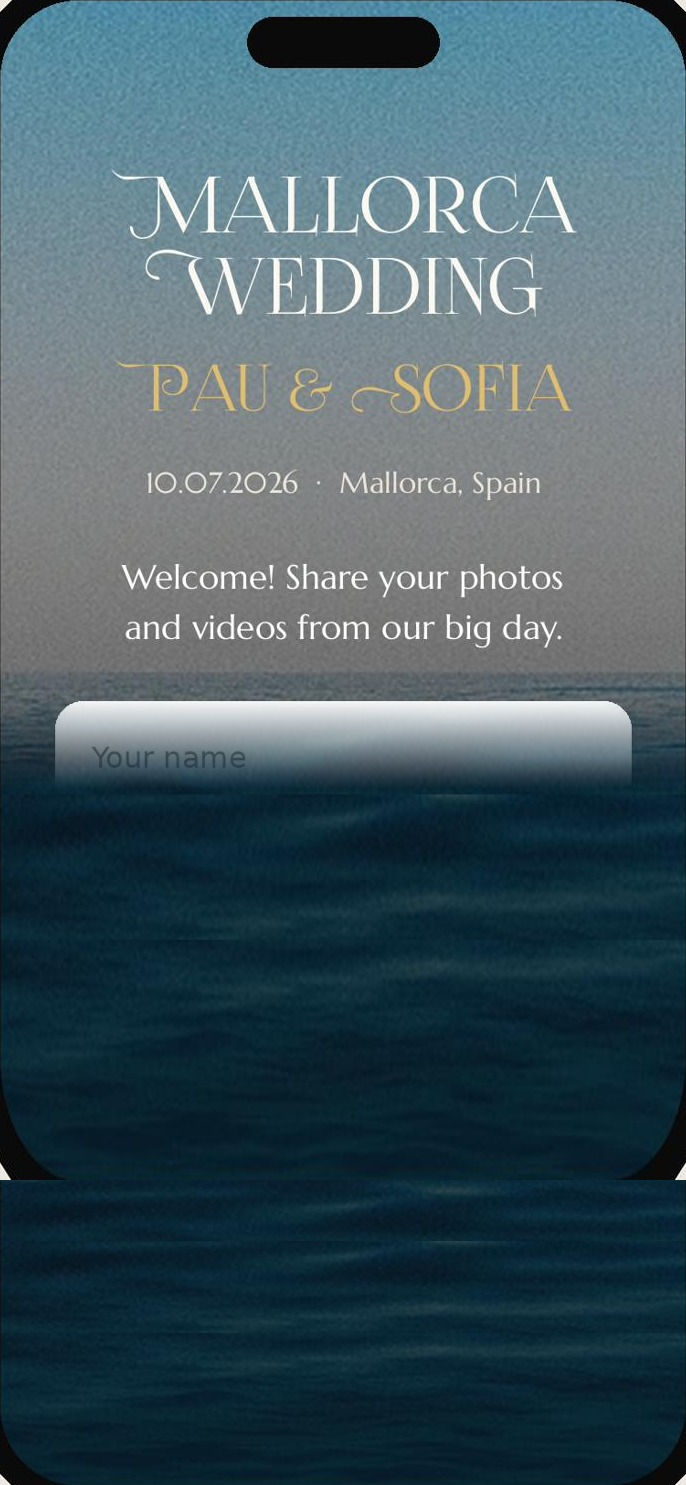
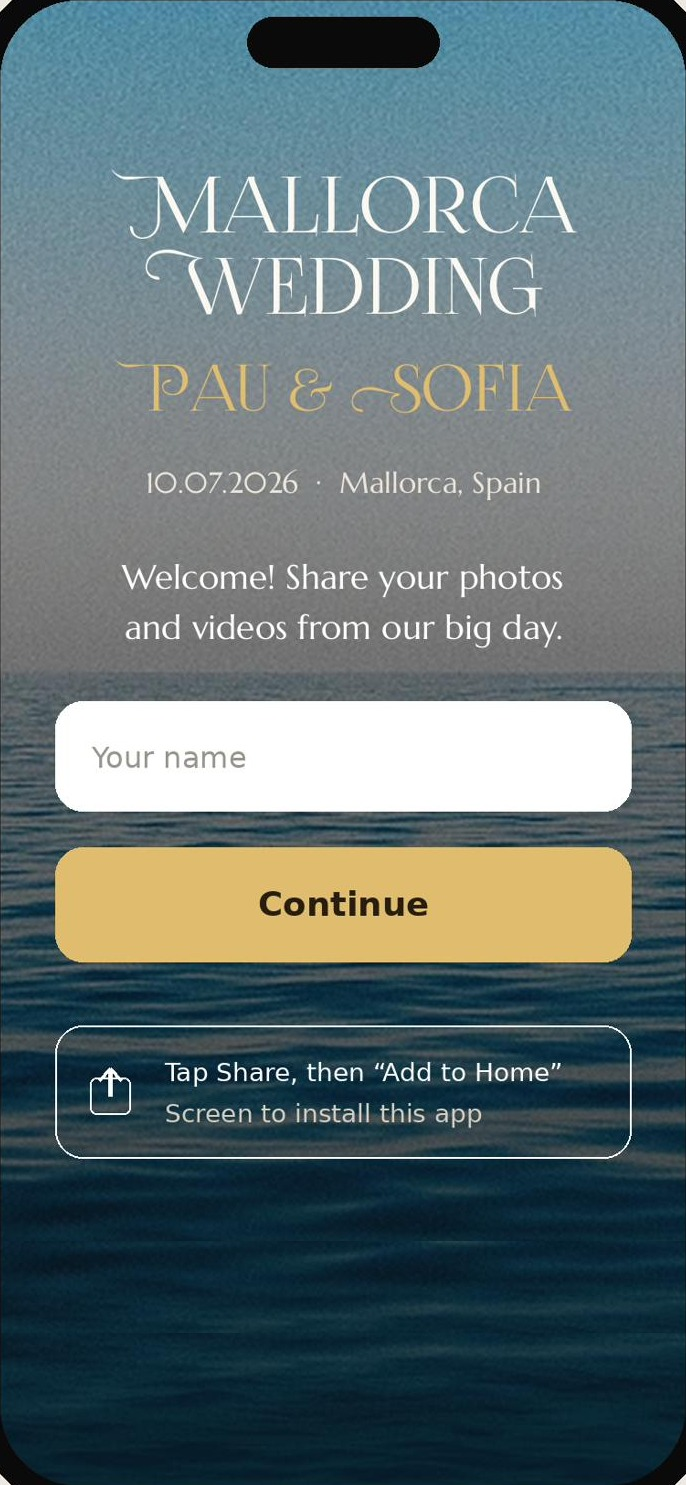
Fix login page artifact and drop the language switcher
Two earlier attempts to paint over the mockup's baked-in fake UI
(stretched-texture clone, then a plain gradient) both left visible
seams -- a "Continue" ghost and vertical banding -- because they tried
to hide the contaminated region by editing the photo itself. Dropped
that approach entirely: the photo is now used completely unedited,
and the name/code/Continue rows are grouped into one solid opaque
card (zero gaps between rows, white background instead of the
95%-opacity fill that was letting the baked "Continue" text bleed
through) sized to fully cover where the mockup's fake field/button/
install-hint used to be. Nothing underneath can show through
regardless of exact pixel alignment.

Also removed the EN/CA/ES/RU language switcher from this screen per
request -- language can still be changed from Profile after signing in.

Changed region(s): [[0.0, 0.4646, 1.0, 0.8054]]

diff --git a/login.html b/login.html
@@ -21,79 +21,56 @@
     clip: rect(0,0,0,0); white-space: nowrap; border: 0;
   }
 
+  /* One opaque, unbroken card covering the whole area where the original
+     mockup had baked-in fake UI (a single field + button + install hint).
+     No gaps between the rows inside it — any gap would let those baked
+     pixels show through underneath. */
   .login-form {
-    position: absolute; inset: 0;
-    z-index: 2;
-  }
-  .login-field {
     position: absolute;
     left: 8.15%; width: 83.7%;
-    height: 6.9%;
+    top: 44.7%; height: 34.5%;
+    z-index: 2;
+    background: #ffffff;
+    border-radius: 14px;
+    overflow: hidden;
+    box-shadow: 0 4px 18px rgba(0,0,0,0.2);
+    display: flex;
+    flex-direction: column;
   }
-  .login-field input {
+  .login-row { flex: 1; position: relative; }
+  .login-row input {
     width: 100%; height: 100%;
     border: none;
-    border-radius: 14px;
     padding: 0 18px;
     font-size: 16px;
     font-family: var(--font-ui);
     color: var(--ink);
-    background: rgba(255,255,255,0.96);
-    box-shadow: 0 2px 10px rgba(0,0,0,0.12);
+    background: #ffffff;
   }
-  .login-field input:focus { outline: 2px solid var(--gold-text); }
-  #field-name { top: 47.4%; }
-  #field-code { top: 56.1%; }
+  .login-row input:focus { outline: 2px solid var(--gold-text); outline-offset: -2px; }
+  .login-row + .login-row { border-top: 1px solid var(--divider-2); }
 
   .login-submit {
-    position: absolute;
-    left: 8.15%; width: 83.7%;
-    top: 64.7%; height: 6.9%;
+    flex: 1;
     border: none;
-    border-radius: 14px;
     background: var(--gold);
     color: var(--ink);
     font-size: 16px;
     font-weight: 700;
     font-family: var(--font-ui);
     cursor: pointer;
-    box-shadow: 0 2px 10px rgba(0,0,0,0.15);
   }
   .login-submit:disabled { opacity: .6; cursor: default; }
 
   .login-error {
     position: absolute;
     left: 8.15%; width: 83.7%;
-    top: 73.2%;
+    top: calc(44.7% + 34.5% + 12px);
     color: #fff;
     text-shadow: 0 1px 4px rgba(0,0,0,0.6);
     font-size: 14px;
     text-align: center;
-  }
-
-  .lang-switch {
-    position: absolute;
-    top: calc(12px + env(safe-area-inset-top));
-    right: 16px;
-    z-index: 5;
-    display: flex;
-    gap: 6px;
-  }
-  .lang-switch button {
-    border: 1px solid rgba(255,255,255,0.55);
-    background: rgba(0,0,0,0.25);
-    color: #fff;
-    font-size: 12px;
-    font-weight: 600;
-    padding: 5px 9px;
-    border-radius: 12px;
-    cursor: pointer;
-    font-family: var(--font-ui);
-  }
-  .lang-switch button.is-active {
-    background: var(--gold);
-    border-color: var(--gold);
-    color: var(--ink);
+    z-index: 2;
   }
 </style>
 </head>
@@ -103,52 +80,31 @@
   <main class="app">
     <img class="login-bg" src="assets/img/login-full.jpg" alt="Mallorca Wedding — Pau &amp; Sofia, 10.07.2026, Mallorca, Spain">
     <div class="notch"></div>
-    <div class="lang-switch" id="lang-switch"></div>
 
     <form class="login-form" id="login-form">
-      <div class="login-field" id="field-name">
+      <div class="login-row">
         <label class="sr-only" for="name" data-i18n="login.nameLabel">Your name</label>
         <input id="name" name="name" type="text" autocomplete="name" placeholder="Your name" required>
       </div>
-      <div class="login-field" id="field-code">
+      <div class="login-row">
         <label class="sr-only" for="code" data-i18n="login.codeLabel">Access code</label>
         <input id="code" name="code" type="text" autocomplete="off" placeholder="Access code" required>
       </div>
-
       <button class="login-submit" type="submit" id="login-submit" data-i18n="login.continue">Continue</button>
-      <p class="login-error" id="login-error"></p>
     </form>
+    <p class="login-error" id="login-error"></p>
   </main>
   </div>
   </div>
 
   <script type="module">
     import { signInGuest } from "./js/auth.js";
-    import { applyTranslations, t, getLang, setLang, LANGUAGES } from "./js/i18n.js";
+    import { applyTranslations, t } from "./js/i18n.js";
 
     applyTranslations();
 
-    const langSwitch = document.getElementById("lang-switch");
-    function renderLangSwitch() {
-      const current = getLang();
-      langSwitch.innerHTML = LANGUAGES.map(
-        (l) => `<button type="button" class="${l.code === current ? "is-active" : ""}" data-code="${l.code}">${l.code.toUpperCase()}</button>`
-      ).join("");
-      langSwitch.querySelectorAll("button").forEach((btn) => {
-        btn.addEventListener("click", () => {
-          setLang(btn.dataset.code);
-          renderLangSwitch();
-          applyPlaceholders();
-        });
-      });
-    }
-    renderLangSwitch();
-
-    function applyPlaceholders() {
-      document.getElementById("name").placeholder = t("login.nameLabel");
-      document.getElementById("code").placeholder = t("login.codeLabel");
-    }
-    applyPlaceholders();
+    document.getElementById("name").placeholder = t("login.nameLabel");
+    document.getElementById("code").placeholder = t("login.codeLabel");
 
     const form = document.getElementById("login-form");
     const submitBtn = document.getElementById("login-submit");
